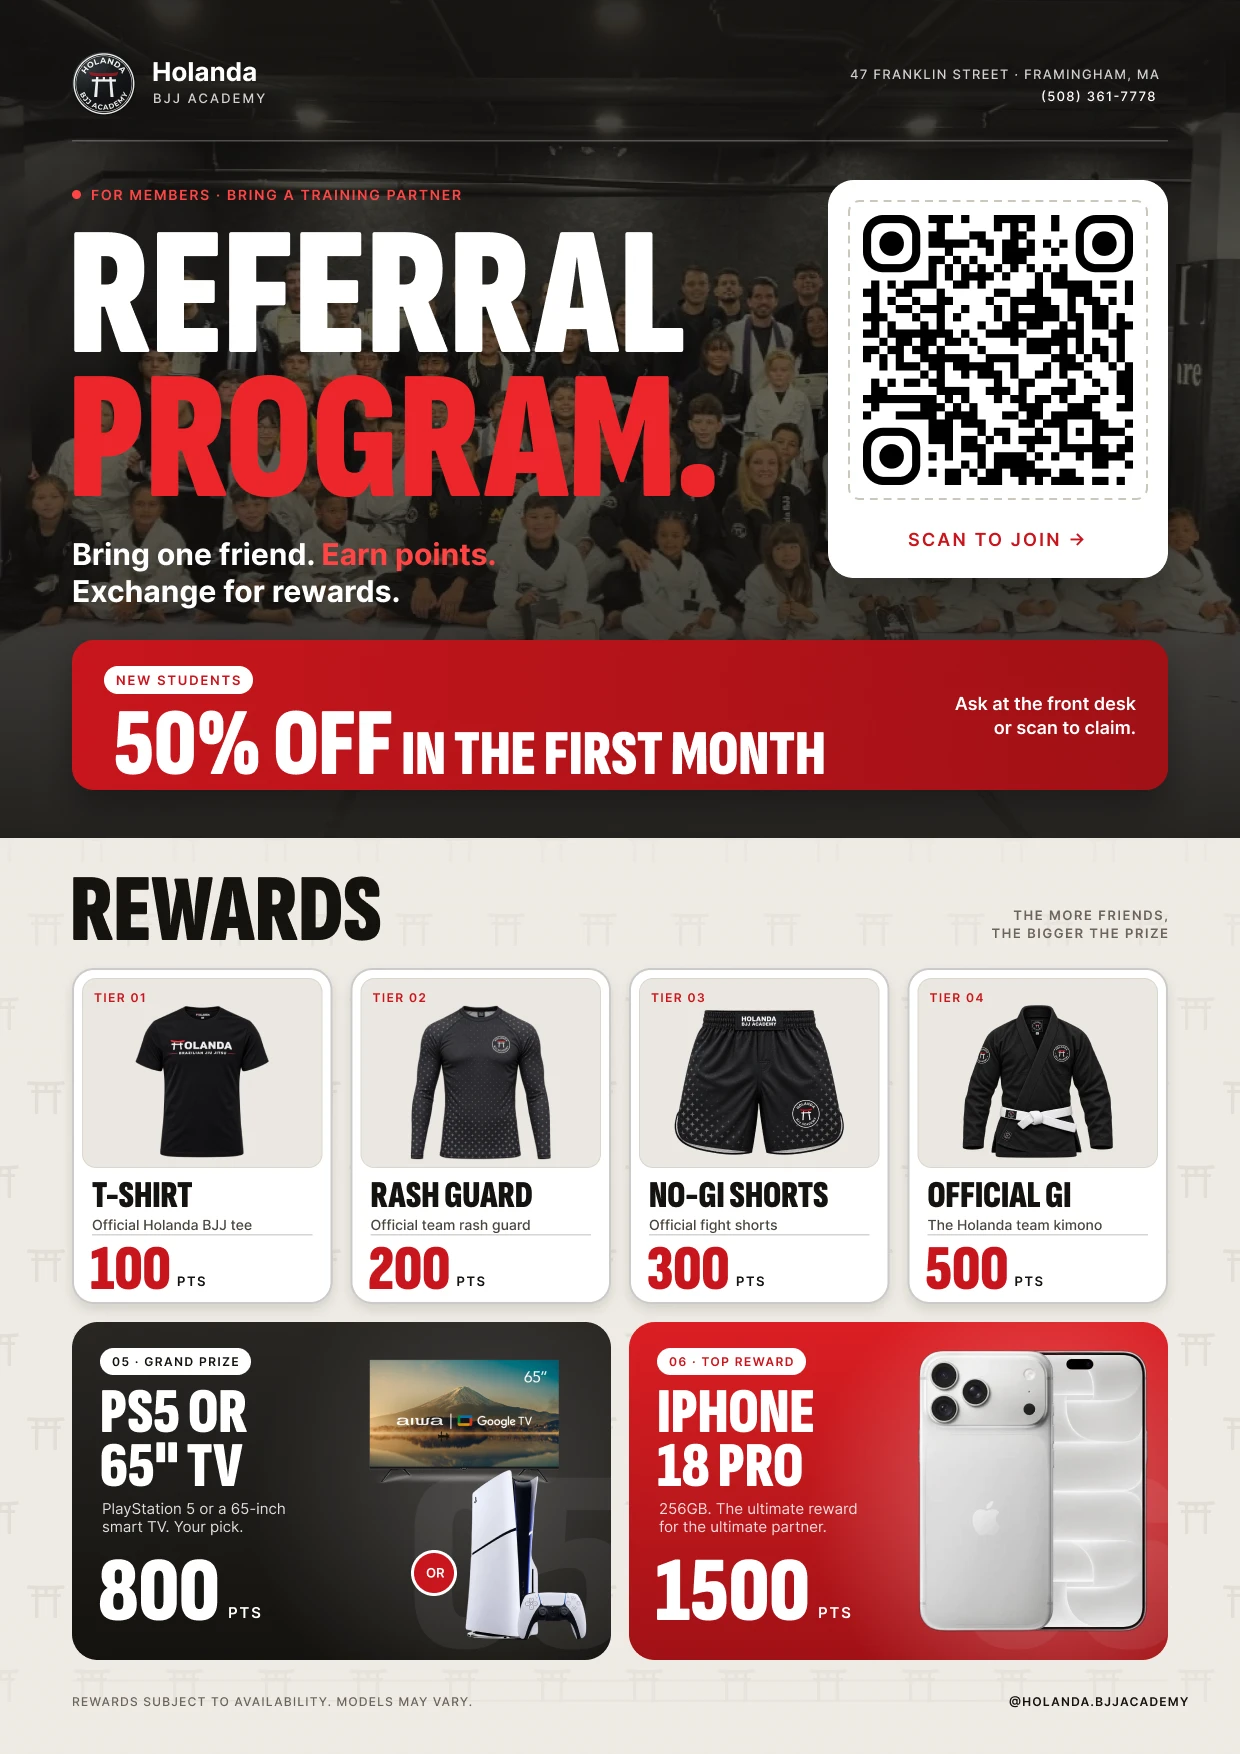
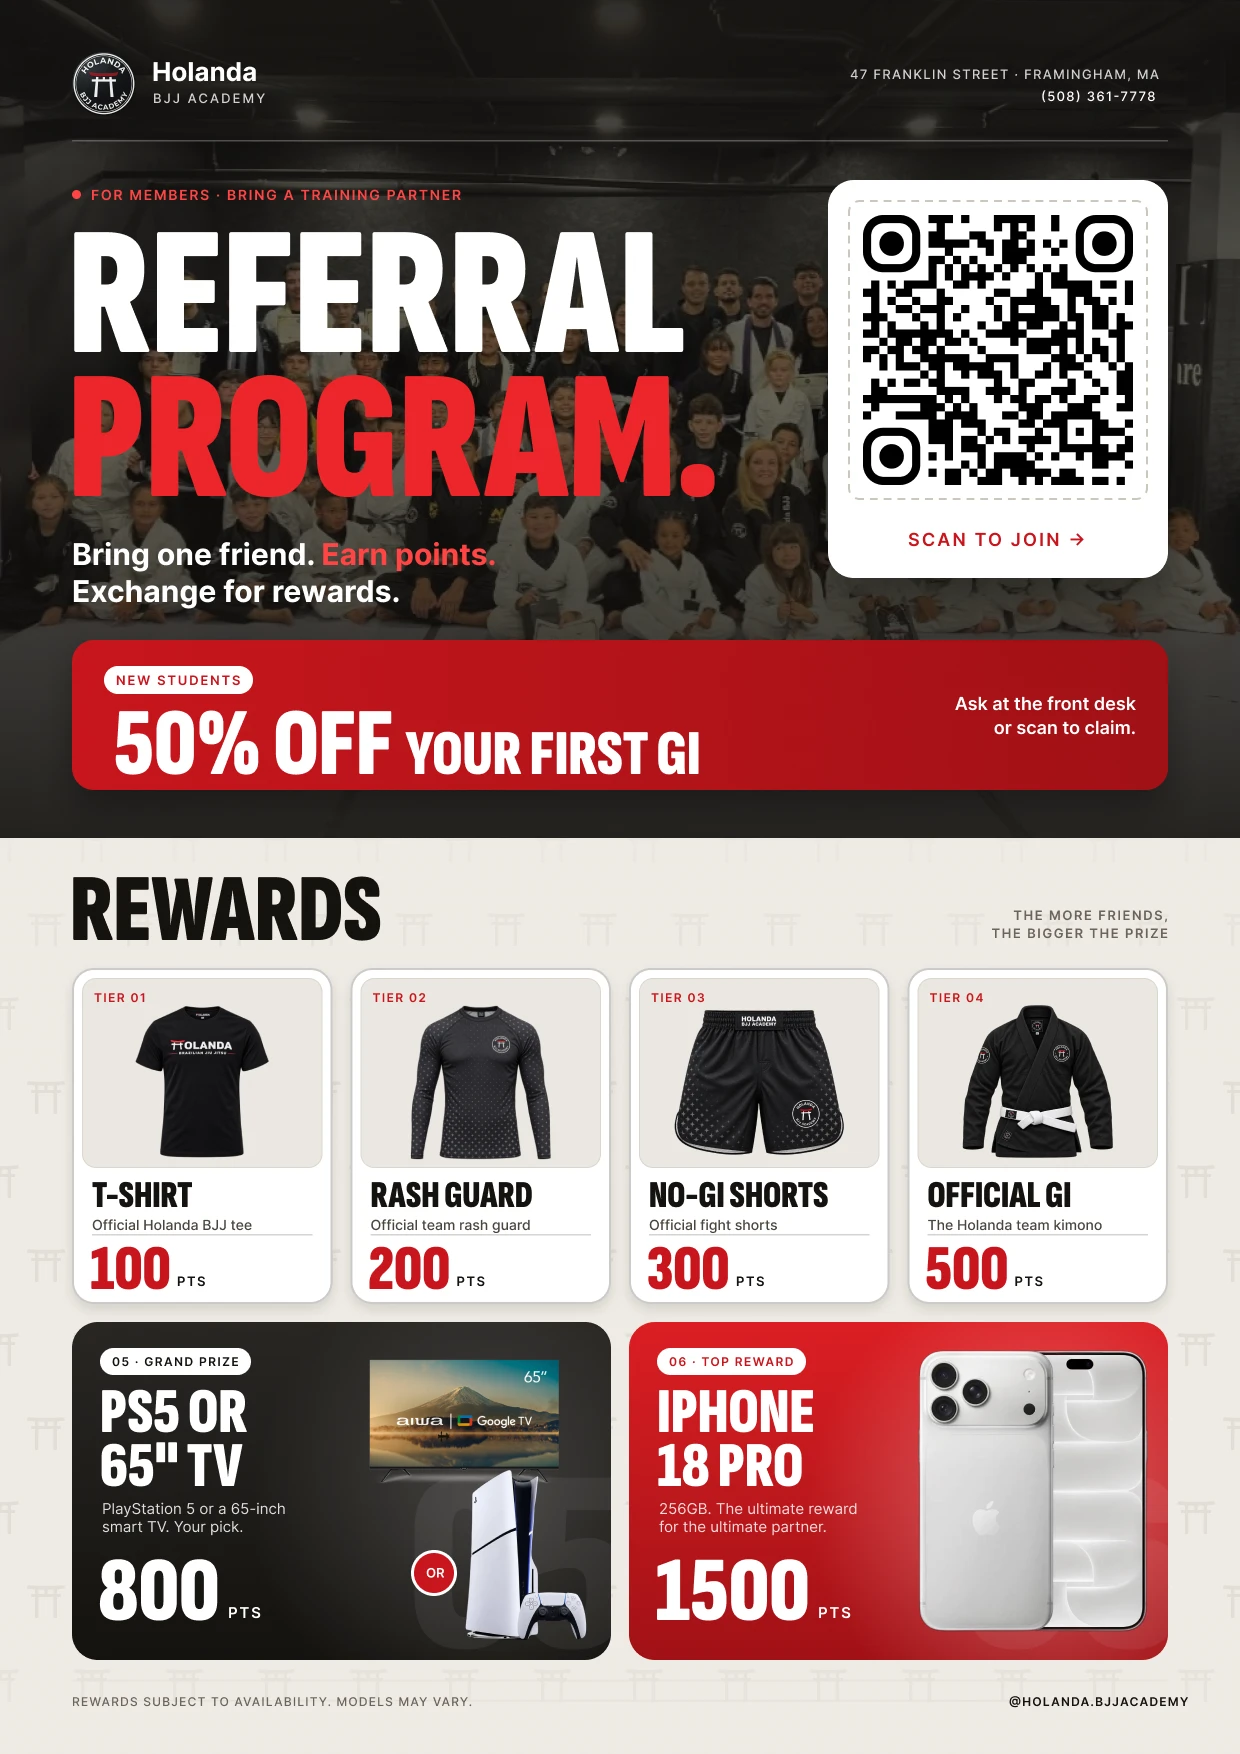
feat(referral): new member offer is 50% off the first gi
Mestre Holanda swapped the friend's offer from "50% off in the first month"
to "50% off your first gi". The A4 flyer's red band now reads
"50% OFF YOUR FIRST GI" (?v=2, webp is cached for 7 days), and the page says
it in words too: hero, the form block, the flyer's alt and a new rule,
"Your friend's offer". One constant (FRIEND_OFFER), same wording as /black-friday.

Changed region(s): [[0.3065, 0.4002, 0.6742, 0.4618]]

diff --git a/src/pages/ReferralPage.tsx b/src/pages/ReferralPage.tsx
@@ -10,7 +10,7 @@ import { Phone } from '@/components/icons'
 import { Wordmark } from '@/components/mark'
 import { site } from '@/data/site'
 import { cn } from '@/lib/utils'
-import { FINAL_PHOTO, FLYER_PHOTO, GALLERY, REFERRAL_WEBHOOK, REWARDS, RULES, TOP_POINTS, type Reward } from './referral/data'
+import { FINAL_PHOTO, FLYER_PHOTO, FRIEND_OFFER, GALLERY, REFERRAL_WEBHOOK, REWARDS, RULES, TOP_POINTS, type Reward } from './referral/data'
 import './referral/referral.css'
 
 /**
@@ -269,7 +269,7 @@ function Flyer() {
       <a href={FLYER_PHOTO} target="_blank" rel="noreferrer" className="block h-full" aria-label="Open the referral program flyer full size">
         <img
           src={FLYER_PHOTO}
-          alt={`${site.name} referral program flyer: bring one friend, earn points and exchange them for rewards, from a T-shirt at 100 points to an iPhone 18 Pro at 1,500.`}
+          alt={`${site.name} referral program flyer: bring one friend, earn points and exchange them for rewards, from a T-shirt at 100 points to an iPhone 18 Pro at 1,500. New students get 50% off their first gi.`}
           width={1240} height={1754} loading="lazy" decoding="async"
           className="rf-flyer__img h-full w-full object-contain"
         />
@@ -577,7 +577,7 @@ export default function ReferralPage() {
                 </h1>
                 <Reveal gesture="rise" delay={0.3}>
                   <p className="type-body mx-auto mt-8 max-w-[50ch] leading-relaxed text-ink-soft">
-                    Jiu-jitsu is better with someone you trust beside you on the mat. Refer a friend, earn points, and trade them for real rewards, all the way up to a new iPhone.
+                    Jiu-jitsu is better with someone you trust beside you on the mat. Refer a friend, earn points, and trade them for real rewards, all the way up to a new iPhone. Your friend gets {FRIEND_OFFER}.
                   </p>
                 </Reveal>
                 <Reveal gesture="rise" delay={0.42}>
@@ -597,7 +597,7 @@ export default function ReferralPage() {
         {/* ── FLYER + FORM ── */}
         <section id="referral-form" className="band relative scroll-mt-6 bg-white">
           <div className="shell">
-            <SectionHead stroke="Refer" title="Send us their name. We do the rest." large aside={<p className="type-body leading-relaxed text-ink-soft">Your friend gets an invitation for a free trial class. When they join, the points are yours.</p>} />
+            <SectionHead stroke="Refer" title="Send us their name. We do the rest." large aside={<p className="type-body leading-relaxed text-ink-soft">Your friend gets a free trial class and, when they join, {FRIEND_OFFER}. The points are yours.</p>} />
             <div className="mt-12 grid grid-cols-1 items-stretch gap-6 lg:grid-cols-[minmax(0,0.85fr)_minmax(0,1.15fr)] lg:gap-8">
               <Reveal gesture="settle" className="h-full"><Flyer /></Reveal>
               <Reveal gesture="settle" delay={0.08} className="h-full"><ReferralForm initial={initial} /></Reveal>

diff --git a/src/pages/referral/data.ts b/src/pages/referral/data.ts
@@ -36,8 +36,14 @@ export const GALLERY: { src: string; wide?: boolean }[] = [
   { src: r('strip-11.webp') },
 ]
 
-/** The flyer panel: the approved A4 flyer (01-ReferralProgram-A4), whole, 1240x1754. */
-export const FLYER_PHOTO = r('01_referralprogram_a4.webp')
+/** The flyer panel: the approved A4 flyer (01-ReferralProgram-A4), whole, 1240x1754. Since 06/11 its red
+ *  band reads "50% OFF YOUR FIRST GI" (it said "in the first month"; Mestre Holanda swapped the offer, and
+ *  the art was updated by Adryan). ?v=2 because webp is cached for 7 days. */
+export const FLYER_PHOTO = r('01_referralprogram_a4.webp?v=2')
+
+/** The new member's side of the deal (Mestre Holanda, 06/11): the friend who joins gets half off a gi.
+ *  Same wording as the Black Friday page, so the two offers read alike. */
+export const FRIEND_OFFER = '50% off their first gi'
 export const FINAL_PHOTO = r('final.webp')
 
 export type Reward = {
@@ -65,13 +71,14 @@ export const TOP_POINTS = REWARDS[REWARDS.length - 1].pts
 
 /**
  * The fleet's referral rules (Melbourne / Charleston / 2002), TO CONFIRM with Holanda. Left out on
- * purpose, as in 2002: Melbourne's "Program Duration" (its own dates) and a reward for the new member
- * (Holanda's list has none; the flyer's "[YOUR OFFER] in the first month" is still a placeholder).
+ * purpose, as in 2002: Melbourne's "Program Duration" (its own dates). The new member's reward is
+ * Holanda's own since 06/11 (FRIEND_OFFER).
  */
 export const RULES = [
   { title: 'Eligibility', text: 'All current members in good standing are eligible to participate in the referral program.' },
   { title: 'Referral verification', text: "Referrals must be verified by having the new member provide the referrer's name upon signing up, or by submitting a referral form available at the academy or online." },
   { title: 'Qualifying referral', text: 'A referral qualifies once the new member has signed up for a membership and has made their first payment.' },
+  { title: "Your friend's offer", text: `Every friend who joins through the program gets ${FRIEND_OFFER}. Ask at the front desk to claim it.` },
   { title: 'Reward distribution', text: 'Rewards are distributed monthly. Rewards are subject to availability, and models may vary.' },
   { title: 'No limits', text: 'There are no limits to the number of referrals a current member can make, but rewards will be capped monthly.' },
   { title: 'Referral tracking', text: 'Participants are responsible for ensuring their referrals are tracked properly. The academy may provide an online dashboard or regular updates.' },
